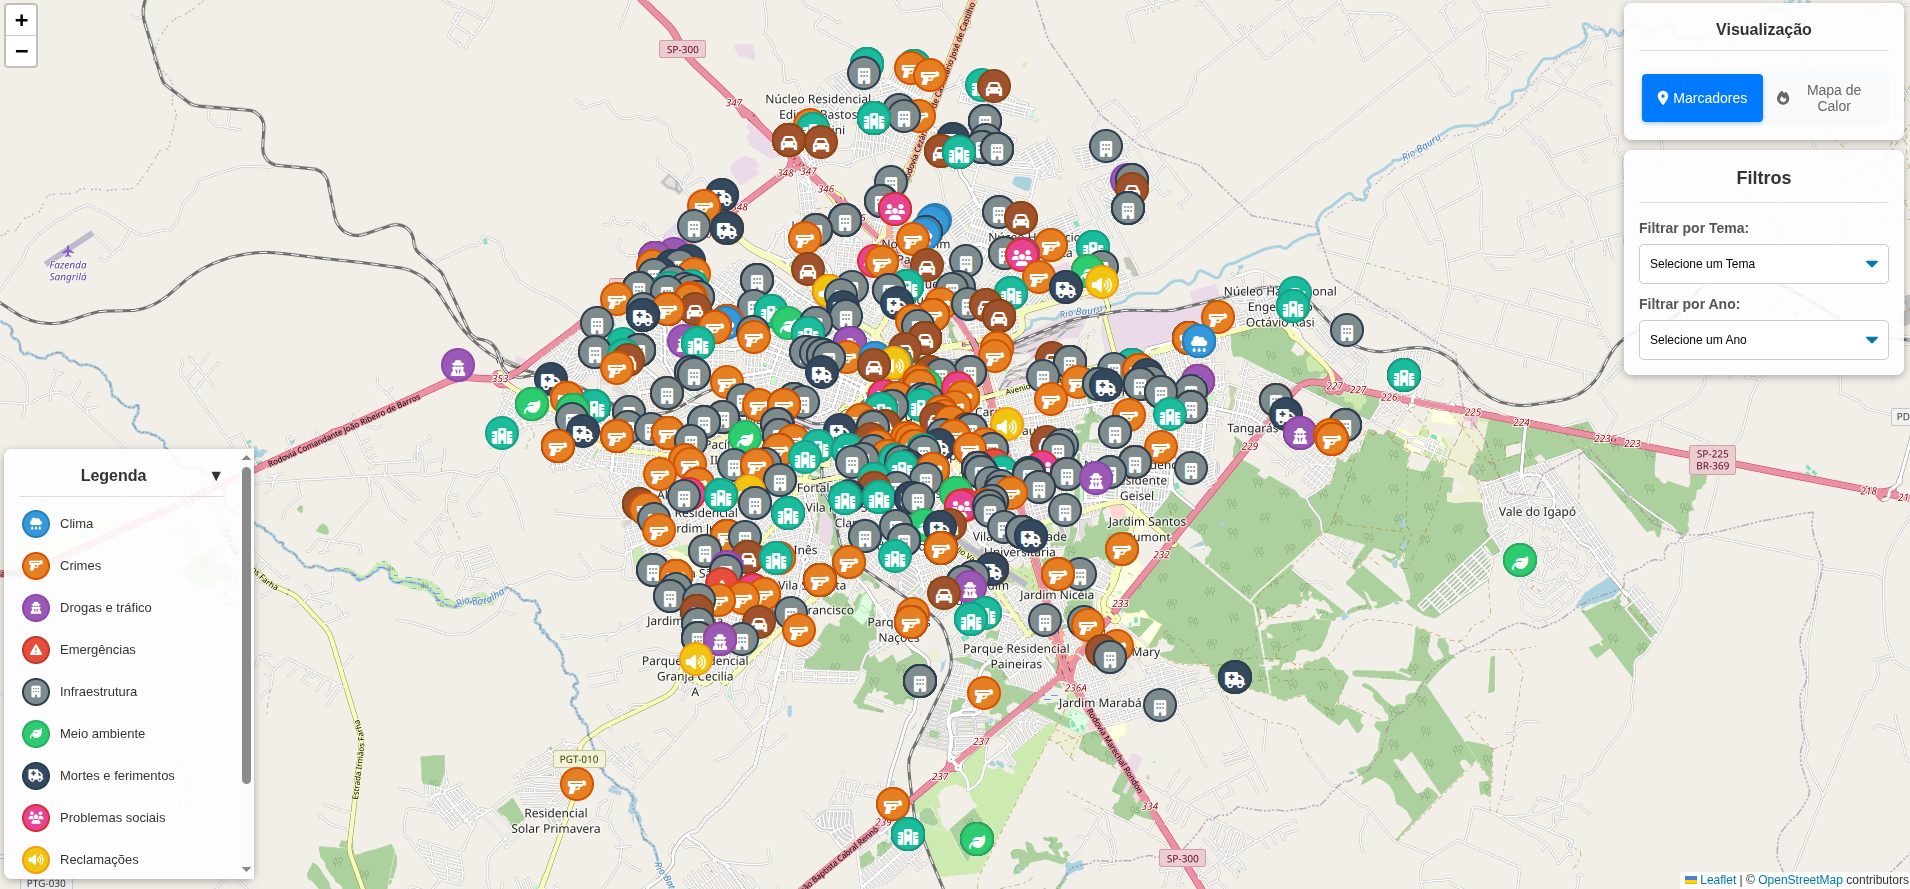
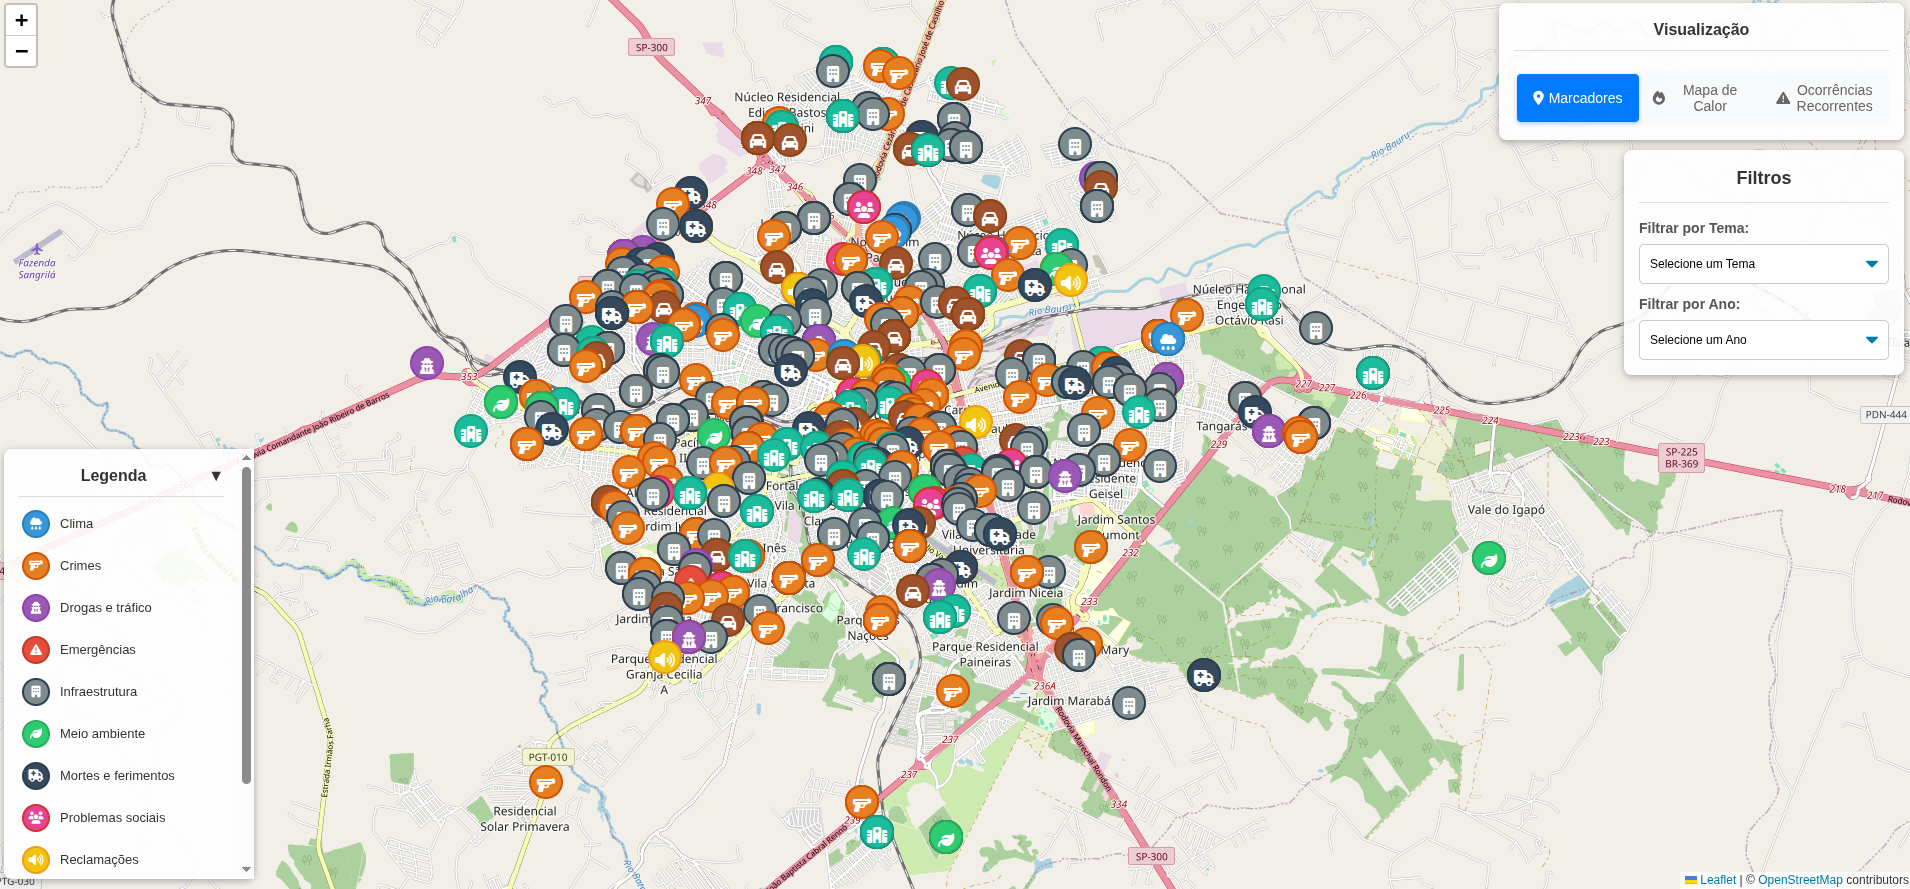
feat visualização de ocorrências recorrentes

diff --git a/script.js b/script.js
@@ -1,8 +1,10 @@
 document.addEventListener('DOMContentLoaded', () => {
   let marcadoresLayer = L.layerGroup();
+  let recurrentesLayer = L.layerGroup();
   let heatmapLayer = null;
-  let currentViewMode = 'markers'; // 'markers' ou 'heatmap'
-  let currentData = []; // Armazenar dados atuais
+  let currentViewMode = 'markers';
+  let currentData = [];
+  let currentRecurrentData = [];
   const map = L.map('mapa').setView([-22.3245, -49.0749], 13);
 
   L.tileLayer('https://{s}.tile.openstreetmap.org/{z}/{x}/{y}.png', {
@@ -197,6 +199,7 @@ document.addEventListener('DOMContentLoaded', () => {
 
     onRemove: function(map) {}
   });
+
   L.Control.Filter = L.Control.extend({
     onAdd: function(map) {
       const container = L.DomUtil.create('div', 'leaflet-control-filter');
@@ -245,6 +248,10 @@ document.addEventListener('DOMContentLoaded', () => {
             <i class="fa fa-fire"></i>
             Mapa de Calor
           </button>
+          <button class="view-option" data-view="recurrent">
+            <i class="fa fa-exclamation-triangle"></i>
+            Ocorrências Recorrentes
+          </button>         
         </div>
       `;
 
@@ -340,25 +347,33 @@ document.addEventListener('DOMContentLoaded', () => {
   function atualizarVisualizacao() {
     console.log('Atualizando visualização para:', currentViewMode, 'com', currentData.length, 'dados');
 
-    if (currentViewMode === 'markers') {
-      if (heatmapLayer) {
-        map.removeLayer(heatmapLayer);
-        heatmapLayer = null;
-        console.log('Heatmap removido');
-      }
+    marcadoresLayer.clearLayers();
+    recurrentesLayer.clearLayers();
+    if (heatmapLayer) {
+      map.removeLayer(heatmapLayer);
+      heatmapLayer = null;
+    }
+    if (map.hasLayer(recurrentesLayer)) {
+      map.removeLayer(recurrentesLayer);
+    }
 
+    if (currentViewMode === 'markers') {
       if (!map.hasLayer(marcadoresLayer)) {
         marcadoresLayer.addTo(map);
       }
       exibirMarcadores(currentData);
 
     } else if (currentViewMode === 'heatmap') {
-      marcadoresLayer.clearLayers();
       if (map.hasLayer(marcadoresLayer)) {
         map.removeLayer(marcadoresLayer);
       }
-
       criarHeatmap(currentData);
+
+    } else if (currentViewMode === 'recurrent') {
+      if (map.hasLayer(marcadoresLayer)) {
+        map.removeLayer(marcadoresLayer);
+      }
+      carregarOcorrenciasRecorrentes();
     }
   }
 
@@ -384,6 +399,52 @@ document.addEventListener('DOMContentLoaded', () => {
     });
   }
 
+  function exibirRecorrentes(ocorrencias) {
+    recurrentesLayer.clearLayers();
+
+    ocorrencias.forEach(ocorrencia => {
+      const popupContent = `
+        <h4 style='margin-bottom:5px; font-size:16px;'>Ponto de ocorrência recorrente</h4>
+        <hr style='margin: 2px;'>
+        <b>Endereço:</b> ${ocorrencia.endereco_comum || 'N/A'}<br>
+        <b>Tema:</b> ${ocorrencia.tema || 'N/A'}<br>
+        <b>Nº de Ocorrências:</b> ${ocorrencia.contagem || 0}
+      `;
+
+      const iconeConfig = iconesPorTema[ocorrencia.tema] || iconesPorTema.default;
+
+      L.marker([ocorrencia.latitude, ocorrencia.longitude], { icon: iconeConfig.icone })
+          .bindPopup(popupContent)
+          .addTo(recurrentesLayer);
+    });
+
+    if (!map.hasLayer(recurrentesLayer)) {
+      recurrentesLayer.addTo(map);
+    }
+  }
+
+  async function carregarOcorrenciasRecorrentes() {
+    const temaSelect = document.querySelector('#tema-wrapper .select-selected');
+    const anoSelect = document.querySelector('#ano-wrapper .select-selected');
+    const tema = temaSelect.dataset.value;
+    const ano = anoSelect.dataset.value;
+
+    try {
+      const url = `http://127.0.0.1:5001/api/ocorrencias-recorrentes?tema=${tema}&ano=${ano}`;
+      console.log('Carregando dados recorrentes de:', url);
+      const response = await fetch(url);
+      const ocorrenciasRecorrentes = await response.json();
+
+      console.log('Dados recorrentes recebidos:', ocorrenciasRecorrentes.length, 'pontos');
+      currentRecurrentData = ocorrenciasRecorrentes;
+
+      exibirRecorrentes(currentRecurrentData);
+
+    } catch (error) {
+      console.error('Erro ao buscar ou processar as ocorrências recorrentes:', error);
+    }
+  }
+
   async function carregarOcorrencias() {
     const temaSelect = document.querySelector('#tema-wrapper .select-selected');
     const anoSelect = document.querySelector('#ano-wrapper .select-selected');
@@ -399,7 +460,11 @@ document.addEventListener('DOMContentLoaded', () => {
       console.log('Dados recebidos:', ocorrencias.length, 'ocorrências');
       currentData = ocorrencias;
 
-      atualizarVisualizacao();
+      if (currentViewMode === 'recurrent') {
+        await carregarOcorrenciasRecorrentes();
+      } else {
+        atualizarVisualizacao();
+      }
 
     } catch (error) {
       console.error('Erro ao buscar ou processar as ocorrências:', error);

diff --git a/style.css b/style.css
@@ -225,7 +225,7 @@ body, html {
   padding: 15px;
   border-radius: 8px;
   box-shadow: 0 2px 8px rgba(0,0,0,0.3);
-  width: 250px;
+  width: 375px;
   display: flex;
   flex-direction: column;
   gap: 10px;

diff --git a/app.py b/app.py
@@ -108,5 +108,59 @@ def get_ocorrencias():
   dados_para_json = df_limpo.to_dict(orient='records')
   return jsonify(dados_para_json)
 
+@app.route('/api/ocorrencias-recorrentes', methods=['GET'])
+def get_ocorrencias_recorrentes():
+  print("Requisição recebida em /api/ocorrencias-recorrentes")
+  ano_filtro = request.args.get('ano')
+  tema_filtro = request.args.get('tema')
+  df_filtrado = dataframe_global.copy()
+
+  if ano_filtro:
+    df_filtrado['ano'] = df_filtrado['published_date'].dt.year
+    df_filtrado = df_filtrado[df_filtrado['ano'] == int(ano_filtro)]
+    print(f"Filtrando por ano: {ano_filtro}")
+
+  if tema_filtro:
+    df_filtrado = df_filtrado[df_filtrado['tema'] == tema_filtro]
+    print(f"Filtrando por tema: {tema_filtro}")
+
+  if df_filtrado.empty:
+    return jsonify([])
+
+  precisao = 3
+  df_filtrado = df_filtrado.copy()
+  df_filtrado['chave_local'] = list(zip(
+    round(df_filtrado['latitude'], precisao),
+    round(df_filtrado['longitude'], precisao)
+  ))
+
+  enderecos_por_local = df_filtrado.groupby('chave_local')['address'].agg(
+    lambda x: x.mode().iloc[0] if not x.empty else 'Endereço não disponível'
+  )
+
+  recorrencias = df_filtrado.groupby(['chave_local', 'tema']).size()
+  recorrencias = recorrencias[recorrencias > 7]
+  df_recorrencias = recorrencias.reset_index(name='contagem')
+
+  if df_recorrencias.empty:
+    return jsonify([])
+
+  df_recorrencias['endereco_comum'] = df_recorrencias['chave_local'].map(enderecos_por_local)
+  df_recorrencias = df_recorrencias.sort_values('contagem', ascending=False)
+
+  resultado = []
+  for _, row in df_recorrencias.iterrows():
+    lat, lon = row['chave_local']
+    resultado.append({
+      'latitude': lat,
+      'longitude': lon,
+      'tema': row['tema'],
+      'contagem': int(row['contagem']),
+      'endereco_comum': row['endereco_comum']
+    })
+
+  print(f"Encontradas {len(resultado)} ocorrências recorrentes")
+  return jsonify(resultado)
+
 if __name__ == '__main__':
   app.run(debug=True, port=5001)

diff --git a/README.md b/README.md
@@ -10,7 +10,7 @@ Um Sistema de Informação Geográfica (SIG) para mapeamento e análise de ocorr
 
 ## Funcionalidades
 - Mapeamento de ocorrências urbanas
-- Visualização com marcadores ou mapa de calor
+- Visualização com marcadores, mapa de calor ou ocorrências recorrentes
 - Filtros por tipo de ocorrência e ano
 
 ## Instalação
